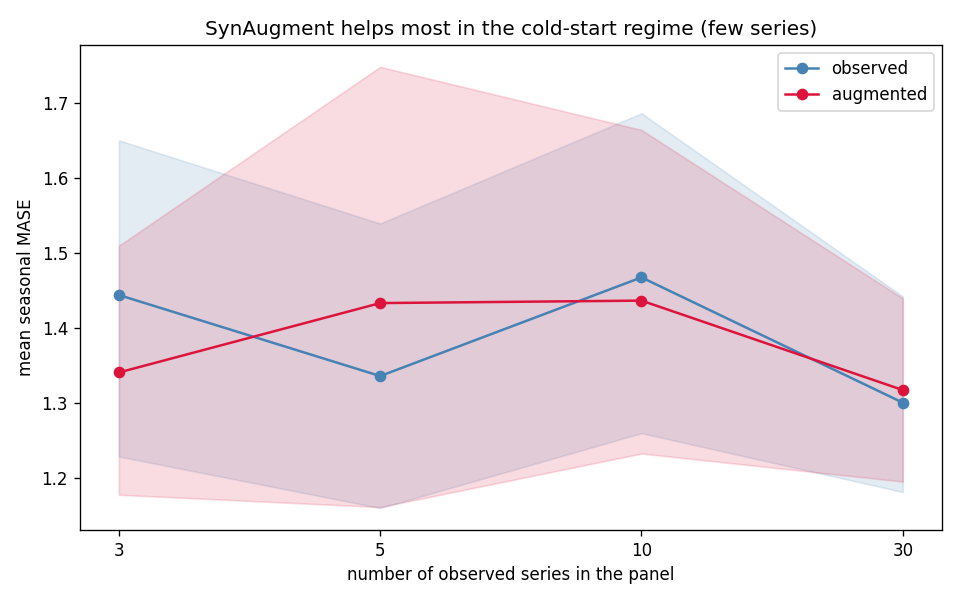
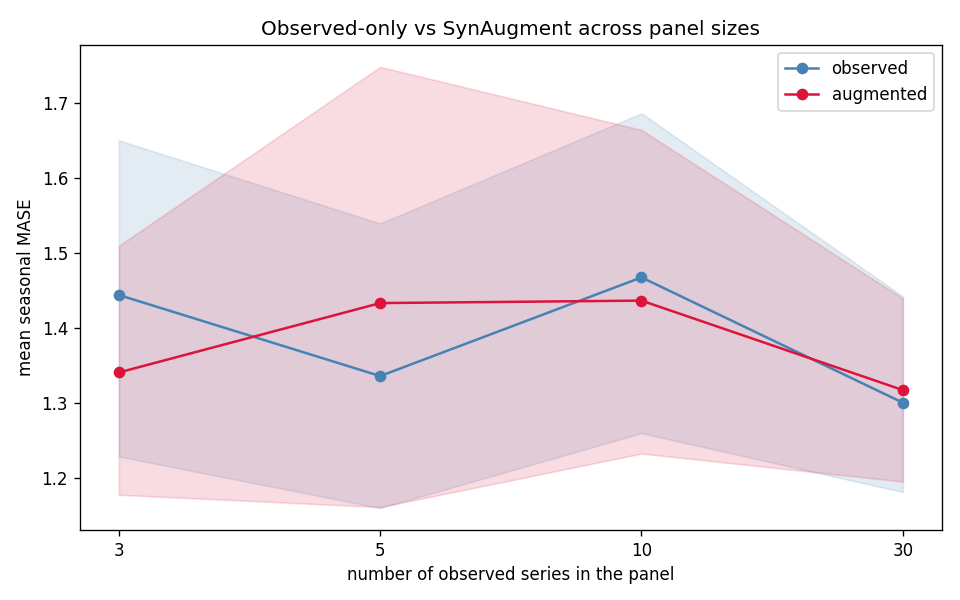
fix_docs

Changed region(s): [[0.2188, 0.03, 0.8438, 0.06]]

diff --git a/tests/test_notebook_examples.py b/tests/test_notebook_examples.py
@@ -5,9 +5,11 @@ import json
 from pathlib import Path
 from typing import Any
 
+import nbformat
 import pytest
 
 import synforecast.generators as generators
+from scripts.execute_notebooks import _normalize
 
 NOTEBOOKS = sorted((Path(__file__).parents[1] / "nbs" / "docs").rglob("*.ipynb"))
 INTEGRATION_REQUIREMENTS = {
@@ -146,6 +148,18 @@ def test_notebook_has_saved_outputs(path: Path) -> None:
     assert outputs, f"{path.relative_to(path.parents[3])} has no saved outputs"
 
 
+@pytest.mark.parametrize("path", NOTEBOOKS, ids=lambda path: path.stem)
+def test_notebook_cell_sources_are_line_arrays(path: Path) -> None:
+    """Keep notebook JSON compatible with the Quarto version used in CI."""
+    notebook = json.loads(path.read_text(encoding="utf-8"))
+    invalid = [
+        index
+        for index, cell in enumerate(notebook["cells"])
+        if not isinstance(cell.get("source"), list)
+    ]
+    assert not invalid, f"{path.name} has string sources in cells {invalid}"
+
+
 @pytest.mark.parametrize("filename,required", INTEGRATION_REQUIREMENTS.items())
 def test_integration_notebooks_cover_training_regimes(
     filename: str, required: list[str]
@@ -158,3 +172,22 @@ def test_integration_notebooks_cover_training_regimes(
     assert source.index("train_df =") < source.index("augmented_train_df = SynAugment")
     for token in required:
         assert token in source, f"{filename} is missing {token!r}"
+
+
+def test_notebook_normalizer_removes_local_lightning_warnings() -> None:
+    """Do not publish machine-specific paths from Lightning warning output."""
+    warning = nbformat.v4.new_output(
+        output_type="stream",
+        name="stderr",
+        text=(
+            "/home/user/.venv/site-packages/"
+            "pytorch_lightning/utilities/_pytree.py: warning\n"
+        ),
+    )
+    notebook = nbformat.v4.new_notebook(
+        cells=[nbformat.v4.new_code_cell(outputs=[warning])]
+    )
+
+    _normalize(notebook)
+
+    assert notebook.cells[0].outputs == []

diff --git a/benchmarks/benchmark_augmentation.py b/benchmarks/benchmark_augmentation.py
@@ -132,17 +132,27 @@ def monthly_synthetic_pool(seed: int) -> list:
     """SARIMA/ETS/seasonal monthly processes for independent pretraining."""
     common = {"min_length": 96, "max_length": 180, "freq": "ME", "engine": "polars"}
     return [
-        SARIMAGenerator(**common, seasonal_period=12, d=1, D=1, noise_std=2.0, seed=seed),
+        SARIMAGenerator(
+            **common, seasonal_period=12, d=1, D=1, noise_std=2.0, seed=seed
+        ),
         SARIMAGenerator(
             **common, seasonal_period=12, p=2, P=0, Q=1, noise_std=1.5, seed=seed + 1
         ),
         ETSGenerator(
-            **common, seasonal_period=12, level=100.0, trend=0.2, noise_std=2.0,
+            **common,
+            seasonal_period=12,
+            level=100.0,
+            trend=0.2,
+            noise_std=2.0,
             seed=seed + 2,
         ),
         SeasonalGenerator(
-            **common, seasonality_period=12, seasonality_amplitude=10.0, trend=0.15,
-            noise_level=2.0, seed=seed + 3,
+            **common,
+            seasonality_period=12,
+            seasonality_amplitude=10.0,
+            trend=0.15,
+            noise_level=2.0,
+            seed=seed + 3,
         ),
     ]
 
@@ -274,8 +284,7 @@ def summarize(df: pd.DataFrame, with_pretrain: bool) -> None:
         except ValueError:
             p = float("nan")
         print(
-            f"{n:>9} {delta.mean():>12.4f} {pct.mean():>12.1f}% "
-            f"{win:>9.0%} {p:>12.4f}"
+            f"{n:>9} {delta.mean():>12.4f} {pct.mean():>12.1f}% {win:>9.0%} {p:>12.4f}"
         )
         verdict.append((n, delta.mean(), win, p))
 
@@ -359,7 +368,7 @@ def save_figure(df: pd.DataFrame, path: Path) -> None:
     ax.set(
         xlabel="number of observed series in the panel",
         ylabel="mean seasonal MASE",
-        title="SynAugment helps most in the cold-start regime (few series)",
+        title="Observed-only vs SynAugment across panel sizes",
     )
     ax.legend()
     fig.tight_layout()

diff --git a/synforecast/generators/kernel_synth.py b/synforecast/generators/kernel_synth.py
@@ -14,19 +14,21 @@ _MAX_RETRIES = 8
 class KernelSynthGenerator(BaseGenerator):
     """Generate series by sampling from randomly composed Gaussian-process kernels.
 
-    This implements the KernelSynth recipe introduced for pretraining the
-    Chronos forecasting models (Ansari et al. 2024,
+    This adapts the KernelSynth recipe introduced for pretraining the Chronos
+    forecasting models (Ansari et al. 2024,
     "Chronos: Learning the Language of Time Series",
-    https://arxiv.org/abs/2403.07815, Apache-2.0). For each series the
+    https://arxiv.org/abs/2403.07815) and its Apache-2.0-licensed reference
+    implementation (https://github.com/amazon-science/chronos-forecasting/blob/main/scripts/kernel-synth.py).
+    For each series the
     generator draws ``1..max_kernels`` base kernels (with replacement) from a
     fixed bank, folds them together with randomly chosen binary operators
     (``+`` or ``*``), and samples one path from the resulting GP prior on the
     normalized grid ``x = linspace(0, 1, length)``. Kernel addition mixes
     behaviors (e.g. trend + seasonality); kernel multiplication modulates them
-    (e.g. locally periodic, amplitude-varying seasonality). The bank defaults,
-    the stability jitter, the divergence guards, and the optional
-    standardization are SynForecast design choices rather than a reproduction
-    of the reference code.
+    (e.g. locally periodic, amplitude-varying seasonality). SynForecast makes
+    the bank configurable, expresses seasonal periods in time steps on a
+    normalized grid, and adds bounded retries, divergence guards, and optional
+    standardization.
 
     Base kernels (r = |x_i - x_j|, all on the normalized grid):
         - rbf: ``exp(-r^2 / (2 l^2))`` — smooth, length-scale ``l``

diff --git a/scripts/execute_notebooks.py b/scripts/execute_notebooks.py
@@ -33,19 +33,17 @@ def _normalize(notebook: nbformat.NotebookNode) -> None:
         outputs = []
         for output in cell.get("outputs", []):
             text = "".join(output.get("text", []))
-            if (
-                output.get("output_type") == "stream"
-                and any(
-                    fragment in text
-                    for fragment in (
-                        "datasetsforecast.utils:Successfully decompressed",
-                        "Seed set to ",
-                        "GPU available:",
-                        "IProgress not found",
-                        "Missing packages: ['ipywidgets']",
-                        "TPU available:",
-                        "`Trainer.fit` stopped: `max_steps=",
-                    )
+            if output.get("output_type") == "stream" and any(
+                fragment in text
+                for fragment in (
+                    "datasetsforecast.utils:Successfully decompressed",
+                    "Seed set to ",
+                    "GPU available:",
+                    "IProgress not found",
+                    "Missing packages: ['ipywidgets']",
+                    "pytorch_lightning/utilities/_pytree.py",
+                    "TPU available:",
+                    "`Trainer.fit` stopped: `max_steps=",
                 )
             ):
                 continue
@@ -93,9 +91,7 @@ def main() -> None:
     )
     args = parser.parse_args()
 
-    os.environ.setdefault(
-        "MPLBACKEND", "module://matplotlib_inline.backend_inline"
-    )
+    os.environ.setdefault("MPLBACKEND", "module://matplotlib_inline.backend_inline")
     notebooks = _notebooks()
     if not notebooks:
         raise SystemExit(f"No notebooks found below {NOTEBOOK_ROOT}")

diff --git a/synforecast/presets.py b/synforecast/presets.py
@@ -342,7 +342,7 @@ def pretraining_pool(
     Examples:
         >>> from synforecast import SynSet, pretraining_pool
         >>> pool = pretraining_pool(min_length=512, max_length=512, freq="h")
-        >>> df = SynSet(pool).generate(n_series_per_generator=10)
+        >>> df = SynSet(pool).generate(n_series_per_generator=1)
 
         >>> # Purely procedural corpus (meta-generators only)
         >>> meta = pretraining_pool(include_balanced=False)

diff --git a/GENERATORS.md b/GENERATORS.md
@@ -540,9 +540,13 @@ interpretable `balanced_pool` by default) into a breadth-maximizing corpus:
 from synforecast import SynSet, pretraining_pool
 
 df = SynSet(pretraining_pool(min_length=512, max_length=512, freq="h")).generate(
-    n_series_per_generator=100
+    n_series_per_generator=1
 )
 ```
+
+KernelSynth and Gaussian-process sampling require covariance factorizations,
+whose cost grows cubically with series length. Scale the length and number of
+series gradually when building a large corpus.
 
 ### TSIGenerator
 
@@ -583,9 +587,12 @@ pretraining data with genuine causal/lead-lag structure.
 
 Samples each series from a Gaussian-process prior whose kernel is a random
 composition of `1..max_kernels` base kernels combined with `+`/`*` operators.
-This is the KernelSynth recipe used to pretrain the Chronos models (Ansari et
-al. 2024, Apache-2.0); the bank defaults and stability guards are SynForecast's
-own. **Applications**: pretraining data with controllable temporal structure.
+This adapts the KernelSynth recipe used to pretrain the Chronos models (Ansari
+et al. 2024) and the Apache-2.0-licensed
+[reference implementation](https://github.com/amazon-science/chronos-forecasting/blob/main/scripts/kernel-synth.py).
+SynForecast adds a configurable kernel bank, time-step seasonal periods,
+bounded retries, divergence guards, and optional standardization.
+**Applications**: pretraining data with controllable temporal structure.
 
 | Parameter | Default | Description |
 |-----------|---------|-------------|
@@ -692,9 +699,9 @@ directory for executable guides to each generator.
 
 ## References and attribution
 
-SynForecast implements the models and numerical methods in this repository;
-it does not copy code from the references below. These are the primary sources
-for named models or algorithms used by the implementation:
+Unless noted otherwise, SynForecast implements the models and numerical methods
+independently. These are the primary sources for named models or algorithms;
+the KernelSynth entry explicitly identifies its reference implementation:
 
 - Hyndman, Koehler, Ord, and Snyder (2008), *Forecasting with Exponential
   Smoothing: The State Space Approach*,
@@ -731,6 +738,13 @@ for named models or algorithms used by the implementation:
   (temporal structural-causal framing). `TCMGenerator`'s graph sampler and
   rollout are original SynForecast design choices, not an implementation
   published in that review.
+- Ansari et al. (2024), “Chronos: Learning the Language of Time Series,”
+  [arXiv:2403.07815](https://arxiv.org/abs/2403.07815), and the official
+  Apache-2.0-licensed
+  [KernelSynth implementation](https://github.com/amazon-science/chronos-forecasting/blob/main/scripts/kernel-synth.py)
+  (KernelSynth and TSMixup recipes; the linked script is the KernelSynth
+  reference implementation). SynForecast's deviations are described above
+  and in the corresponding API documentation.
 - Ansari et al. (2025), “Chronos-2: From Univariate to Universal Forecasting,”
   [arXiv:2510.15821](https://arxiv.org/abs/2510.15821) (motivation for the
   cotemporaneous and sequential couplings in `Multivariatizer`).

diff --git a/.claude/CLAUDE.md b/.claude/CLAUDE.md
@@ -5,7 +5,7 @@ This file provides guidance to Claude Code (claude.ai/code) when working with co
 ## Project Overview
 
 SynForecast is a Python library for generating synthetic time series data with
-30 statistical, stochastic, multivariate, domain-specific, and pretraining
+31 statistical, stochastic, multivariate, domain-specific, and pretraining
 generators. It supports pattern injection (changepoints, anomalies, missing
 data), multiple dataframe backends via the narwhals abstraction, and Rust
 acceleration via PyO3/maturin.
@@ -14,7 +14,7 @@ acceleration via PyO3/maturin.
 
 ```bash
 # Install dependencies
-uv sync --all-extras
+uv sync
 
 # Run all tests with coverage
 uv run pytest tests/ -v --cov=synforecast --cov-report=term-missing
@@ -32,8 +32,8 @@ uv run pre-commit run --all-files
 # typed module, run mypy on the affected files and avoid introducing new errors.
 uv run mypy synforecast/path/to/changed_module.py
 
-# Run an example
-uv run python examples/random_walk_example.py
+# Execute the public documentation notebooks
+uv run make test_docs
 ```
 
 ## Architecture
@@ -53,12 +53,12 @@ unified datasets.
 
 ### Generators (`synforecast/generators/`)
 
-30 generators organized by type:
+31 generators organized by type:
 - **Statistical**: RandomWalk, Seasonal, SARIMA, ETS, INAR
 - **Stochastic**: GARCH, OrnsteinUhlenbeck, GeometricBrownianMotion, JumpDiffusion, PoissonProcess, Cyclic, FractionalBrownianMotion, HawkesProcess, StochasticVolatility, RegimeSwitching, ChaoticSystem, BoundedProcess, LevyProcess
 - **Multivariate**: Copula, VAR, GaussianProcess
 - **Domain-Specific**: IntermittentDemand, IoTSensor, EnergyLoad, StateSpace, DailyActiveUsers, VitalSigns, Clickstream
-- **Pretraining**: TSI, TCM
+- **Pretraining**: TSI, TCM, KernelSynth
 
 ### Performance Layer (`synforecast/_core.py` + `_lib`)
 
@@ -85,7 +85,7 @@ maturin develop --release
 4. Implement `generate_single_series(length: int) -> np.ndarray`
 5. Export in `synforecast/generators/__init__.py`
 6. Create `tests/test_my_generator.py`
-7. Create `examples/my_generator_example.py`
+7. Create an executable guide under `nbs/docs/generators/<category>/`
 
 ## Code Style
 

diff --git a/CHANGELOG.md b/CHANGELOG.md
@@ -4,7 +4,7 @@
 
 ### Added
 
-- Thirty configurable synthetic time-series generators spanning statistical,
+- Thirty-one configurable synthetic time-series generators spanning statistical,
   stochastic, multivariate, domain-specific, and pretraining use cases.
 - Strict Pydantic configuration models with validation for shared and
   generator-specific parameters.
@@ -14,9 +14,14 @@
 - Changepoint, anomaly, and missingness injection, plus exogenous-variable
   generation.
 - `SynSet` for composing generator pools and `SynAugment` for fitting
-  generators to observed series.
+  generators to observed series or creating TSMixup combinations.
 - `Multivariatizer` for adding contemporaneous and lead-lag dependence to
   univariate generators.
-- `generate_series` and `balanced_pool` convenience APIs.
+- TSI, TCM, and KernelSynth meta-generators for diverse foundation-model
+  pretraining corpora.
+- `generate_series`, `balanced_pool`, and `pretraining_pool` convenience APIs.
+- Materialized NeuralForecast, MLForecast, and StatsForecast workflows covering
+  observed-only training, augmentation, synthetic-only pretraining, and
+  pretraining followed by fine-tuning.
 - Executable tutorials, API documentation, mathematical and Rust/Python
   parity tests, and open-source community and security policies.

diff --git a/README.md b/README.md
@@ -12,7 +12,7 @@
 [![License](https://img.shields.io/badge/License-Apache_2.0-blue.svg)](https://github.com/Nixtla/synforecast/blob/main/LICENSE)
 [![Docs](https://github.com/Nixtla/synforecast/actions/workflows/build-docs.yaml/badge.svg)](https://github.com/Nixtla/synforecast/actions/workflows/build-docs.yaml)
 
-**SynForecast** generates validated synthetic time-series panels with 30
+**SynForecast** generates validated synthetic time-series panels with 31
 statistical, stochastic, multivariate, domain-specific, and pretraining
 generators. It follows the Nixtla long format and supports controlled
 changepoints, anomalies, missing data, exogenous variables, and augmentation
